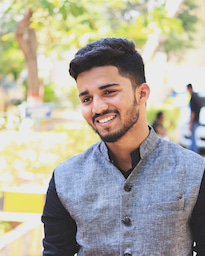
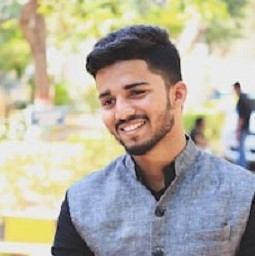
Changes in profile pictures
Compressed entire team profile pictures
Added a new profile picture of rakshitha
Made necessary changes in index.html to reflect the changes

diff --git a/_site/about/index.html b/_site/about/index.html
@@ -76,7 +76,7 @@
         </br>
 		<div class="cards">
           <div class="team card">
-            <div class="card__image" style="background-image: url('/img/team_19-20/rakshitha_pro.jpg')"></div>
+            <div class="card__image" style="background-image: url('/img/team_19-20/rakshitha_pro.jpeg')"></div>
             <p class="card__header">Rakshitha Yalamanchili </p>
             <p class="card__info--handle"><a href="https://github.com/Rakshitha-Yalamanchili" target="_blank" rel="noopener">@Rakshitha-Yalamanchili</a>
             </p>
